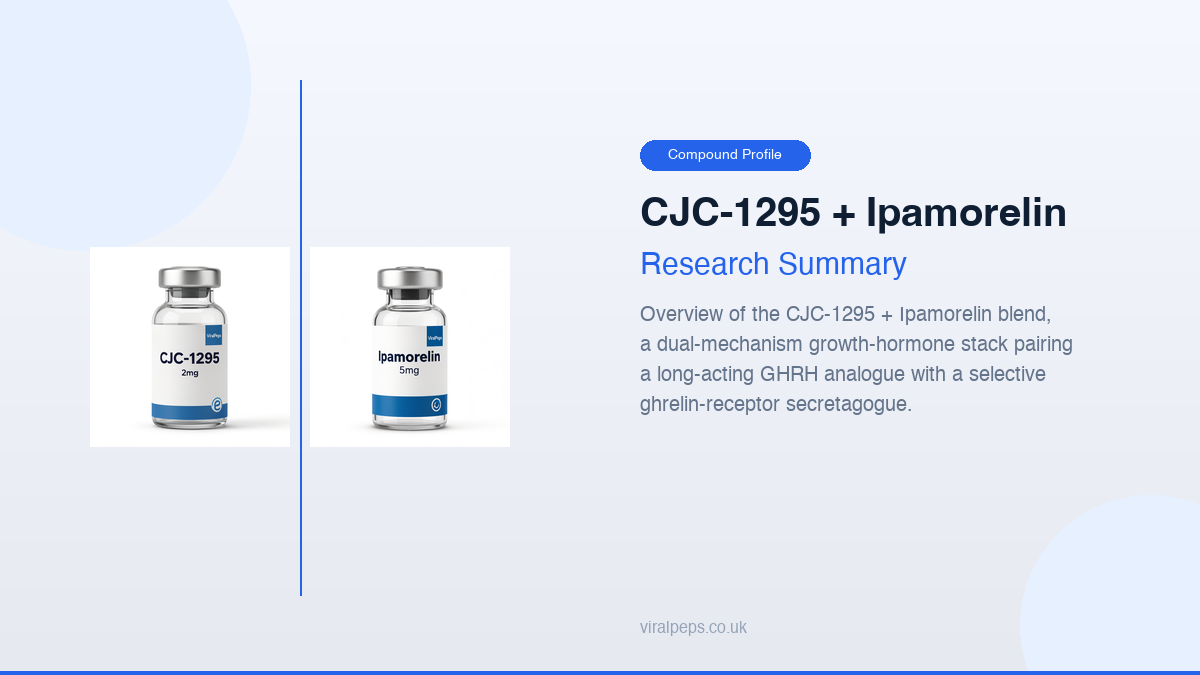
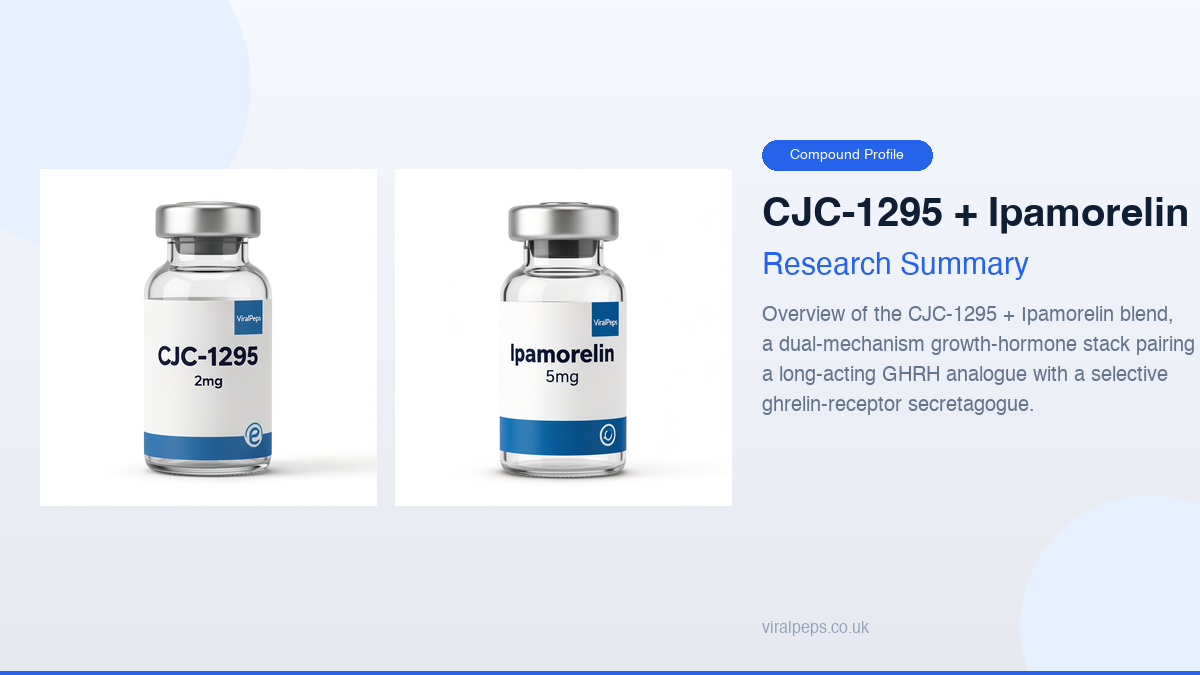
Enlarge CJC-1295 + Ipamorelin blend card vials to match GHK vs BPC (337px, side-by-side)

diff --git a/scripts/make_cjc_ipamorelin_blend_card.py b/scripts/make_cjc_ipamorelin_blend_card.py
@@ -43,42 +43,31 @@ for y in range(card_h):
 draw.ellipse([-80, -80, 250, 250], fill=(230, 240, 255))
 draw.ellipse([card_w - 180, card_h - 180, card_w + 80, card_h + 80], fill=(230, 240, 255))
 
-# Two vials side by side in left half
+# Two vials side by side at 50% card height (GHK-vs-BPC style, large — NOT the small 200px cards)
 card_w_left = card_w // 2
-# Square vials ~200px each, spaced within left half
-vial_w = 200
-vial_h = 200
+vial_h = int(card_h * 0.50)  # 337px tall — matches batch_generate_guide_cards.py comparison cards
+gap = 18
+start_x = 40
 
-def paste_vial(path, x_center, y_center):
+def paste_vial(path, x, y_top):
     if not os.path.exists(path):
         print(f"MISSING vial: {path}")
         return
-    vial = Image.open(path)
-    ratio = vial.width / vial.height
-    w = vial_w
-    h = int(w / ratio)
-    if h > vial_h:
-        h = vial_h
-        w = int(h * ratio)
-    vial_r = vial.resize((w, h), Image.LANCZOS)
-    x = x_center - w // 2
-    y = y_center - h // 2
-    if vial_r.mode == "RGBA":
-        card.paste(vial_r, (x, y), vial_r)
-    else:
-        card.paste(vial_r, (x, y))
+    vial = Image.open(path).convert("RGBA")
+    vw = int(vial_h * vial.width / vial.height)
+    vial = vial.resize((vw, vial_h), Image.LANCZOS)
+    card.paste(vial, (x, y_top), vial)
+    return vw
 
-center_y = card_h // 2
-# Position two vials fully visible within left half
-vial_y_center = center_y + 10
-paste_vial(VIAL_A, 190, vial_y_center)
-paste_vial(VIAL_B, 410, vial_y_center)
-
-# Vertical separator line between vials
-sep_x = 300
-draw.line([(sep_x, 80), (sep_x, card_h - 80)], fill=BLUE, width=2)
-
-text_x = card_w_left + 40
+center_y = int((card_h - vial_h) / 2)
+_a = Image.open(VIAL_A).convert("RGBA")
+_aw = int(vial_h * _a.width / _a.height)
+paste_vial(VIAL_A, 40, center_y)
+_b = Image.open(VIAL_B).convert("RGBA")
+_bw = int(vial_h * _b.width / _b.height)
+paste_vial(VIAL_B, 40 + _aw + 18, center_y)
+text_x = 40 + _aw + 18 + _bw + 30
+# text_x is now the right-column start, matching GHK-vs-BPC text placement
 
 # Badge
 badge_x, badge_y = text_x, 140
